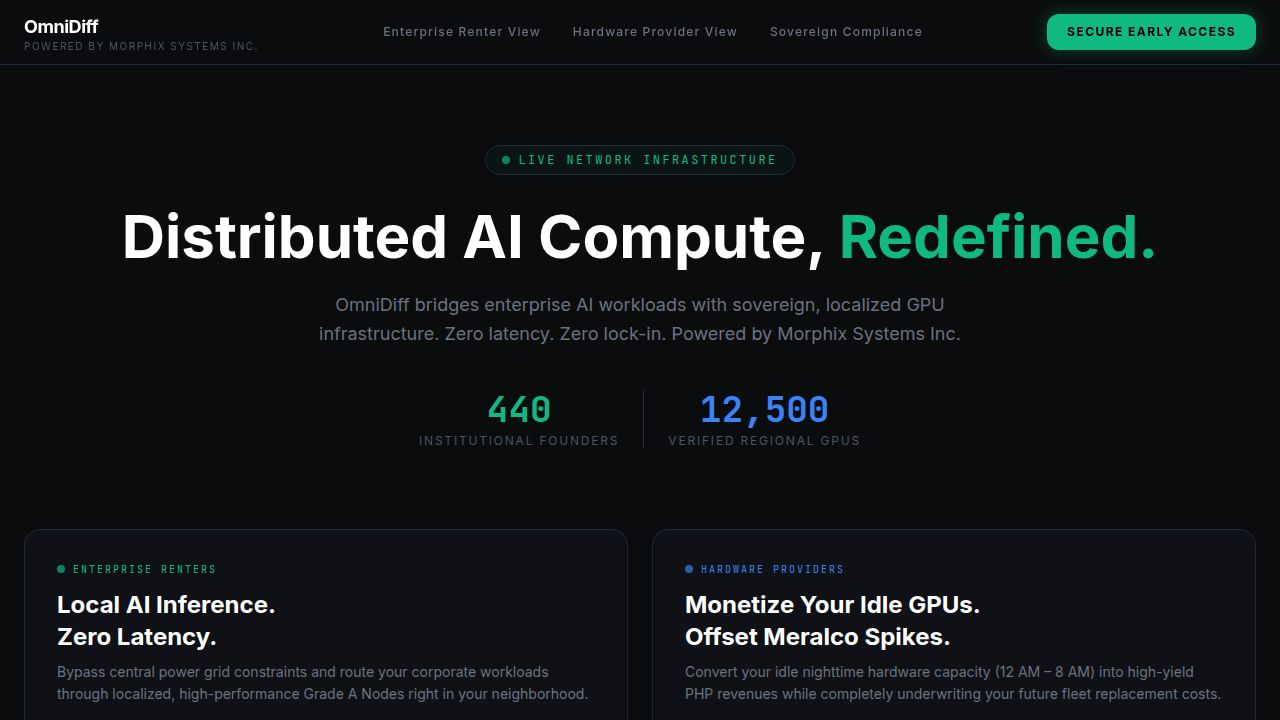
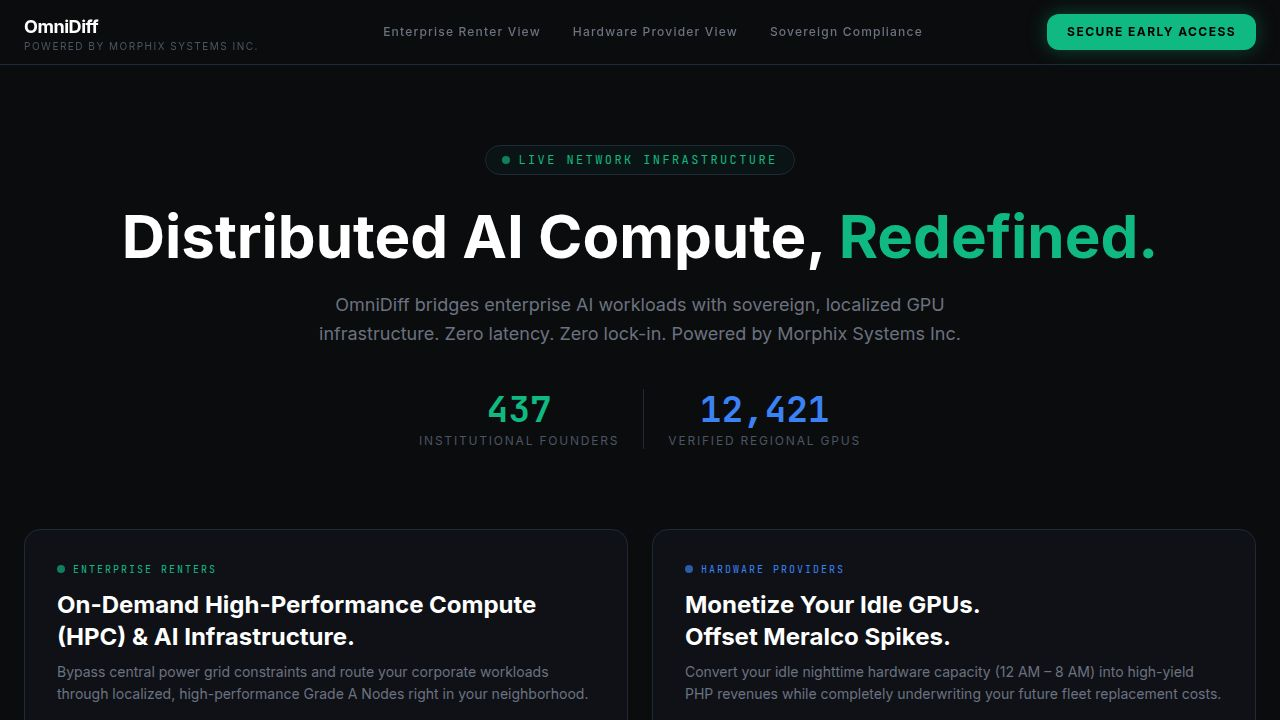
Align progress bars across cards to create a uniform horizontal line
Update card layout to ensure equal height and content stretching, anchoring progress blocks at the same vertical baseline.

Replit-Commit-Author: Agent
Replit-Commit-Session-Id: 7f33c672-b395-4e4f-a13a-f57e576fdb40
Replit-Commit-Checkpoint-Type: full_checkpoint
Replit-Commit-Event-Id: 75c08f6e-361b-4f81-8f56-0baa3fcfe22d
Replit-Commit-Screenshot-Url: https://storage.googleapis.com/screenshot-production-us-central1/4a4365dc-7074-45ab-b66d-7d9cc8cdd0bc/7f33c672-b395-4e4f-a13a-f57e576fdb40/R8V1DpI
Replit-Helium-Checkpoint-Created: true

Changed region(s): [[0.0312, 0.825, 0.4375, 0.9167], [0.5938, 0.55, 0.6562, 0.6111], [0.375, 0.55, 0.4375, 0.5806]]

diff --git a/artifacts/xgpu-dashboard/src/pages/OmniDiff.tsx b/artifacts/xgpu-dashboard/src/pages/OmniDiff.tsx
@@ -394,8 +394,8 @@ export default function OmniDiff() {
         <div className="grid md:grid-cols-2 gap-6">
 
           {/* Renter Card */}
-          <div ref={renterRef} className="rounded-2xl border border-[#1F2937] bg-[#0f1117] p-8 flex flex-col gap-6 scroll-mt-20">
-            <div>
+          <div ref={renterRef} className="rounded-2xl border border-[#1F2937] bg-[#0f1117] p-8 flex flex-col justify-between gap-6 scroll-mt-20 min-h-[760px]">
+            <div className="flex-1 flex flex-col">
               <div className="flex items-center gap-2 mb-3">
                 <span className="w-2 h-2 rounded-full bg-[#10B981] animate-pulse" />
                 <span className="text-[#10B981] text-[10px] tracking-[0.2em] uppercase font-mono">Enterprise Renters</span>
@@ -406,7 +406,7 @@ export default function OmniDiff() {
                 high-performance Grade A Nodes right in your neighborhood.
               </p>
             </div>
-            <div className="rounded-xl border border-[#1F2937] p-4 bg-[#0B0C0E]">
+            <div className="rounded-xl border border-[#1F2937] p-4 bg-[#0B0C0E] mt-auto">
               <ul className="space-y-3 text-sm leading-6 text-[#D1D5DB]">
                 <li className="flex gap-3"><span className="text-[#10B981] font-bold">[✓]</span><span>On-demand local GPU processing at a 40%–60% cost reduction compared to legacy AWS, Microsoft Azure, and Google Cloud pricing models.</span></li>
                 <li className="flex gap-3"><span className="text-[#10B981] font-bold">[✓]</span><span>Plug-and-play architecture optimized for AI Inference/Training, Financial Backtesting, Risk Simulations, and Heavy Data Pipelines.</span></li>
@@ -443,8 +443,8 @@ export default function OmniDiff() {
           </div>
 
           {/* Provider Card */}
-          <div ref={providerRef} className="rounded-2xl border border-[#1F2937] bg-[#0f1117] p-8 flex flex-col gap-6 scroll-mt-20">
-            <div>
+          <div ref={providerRef} className="rounded-2xl border border-[#1F2937] bg-[#0f1117] p-8 flex flex-col justify-between gap-6 scroll-mt-20 min-h-[760px]">
+            <div className="flex-1 flex flex-col">
               <div className="flex items-center gap-2 mb-3">
                 <span className="w-2 h-2 rounded-full bg-[#3B82F6] animate-pulse" />
                 <span className="text-[#3B82F6] text-[10px] tracking-[0.2em] uppercase font-mono">Hardware Providers</span>
@@ -455,7 +455,7 @@ export default function OmniDiff() {
                 while completely underwriting your future fleet replacement costs.
               </p>
             </div>
-            <div className="rounded-xl border border-[#1F2937] p-4 bg-[#0B0C0E]">
+            <div className="rounded-xl border border-[#1F2937] p-4 bg-[#0B0C0E] mt-auto">
               <ul className="space-y-3 text-sm leading-6 text-[#D1D5DB]">
                 <li className="flex gap-3"><span className="text-[#3B82F6] font-bold">[✓]</span><span>Monetize idle 12 AM – 8 AM hardware into predictable, high-yield revenue streams.</span></li>
                 <li className="flex gap-3"><span className="text-[#3B82F6] font-bold">[✓]</span><span>Offset high local utility costs (Meralco spikes) and completely underwrite future equipment replacements.</span></li>